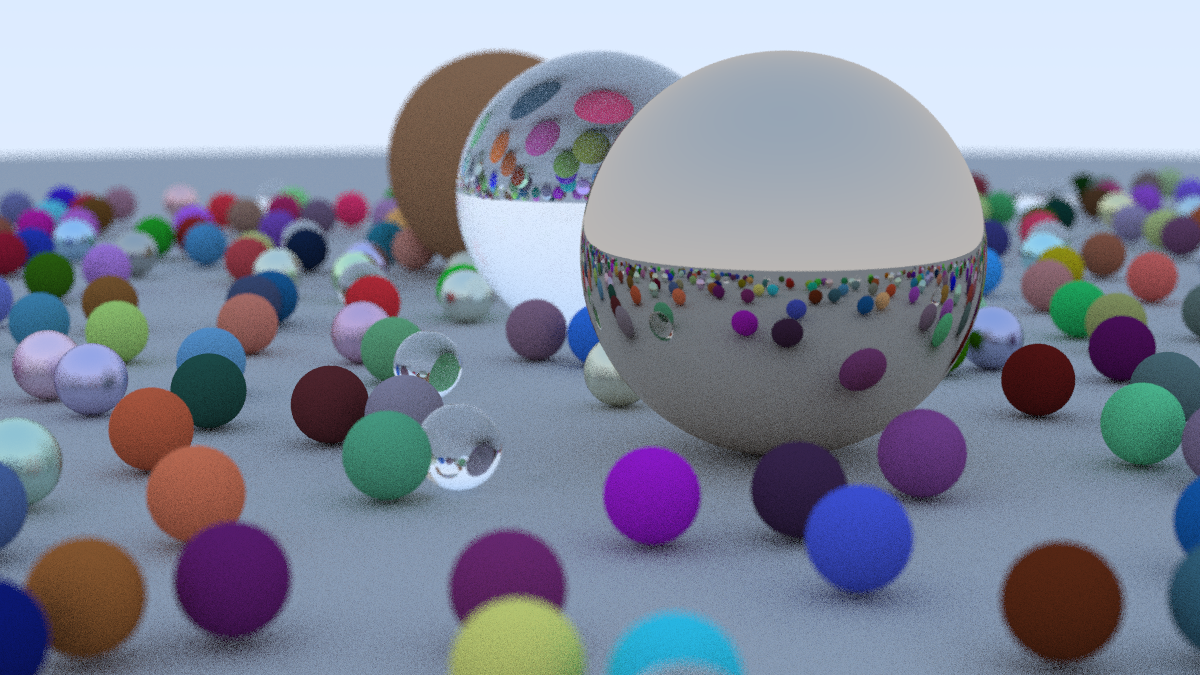
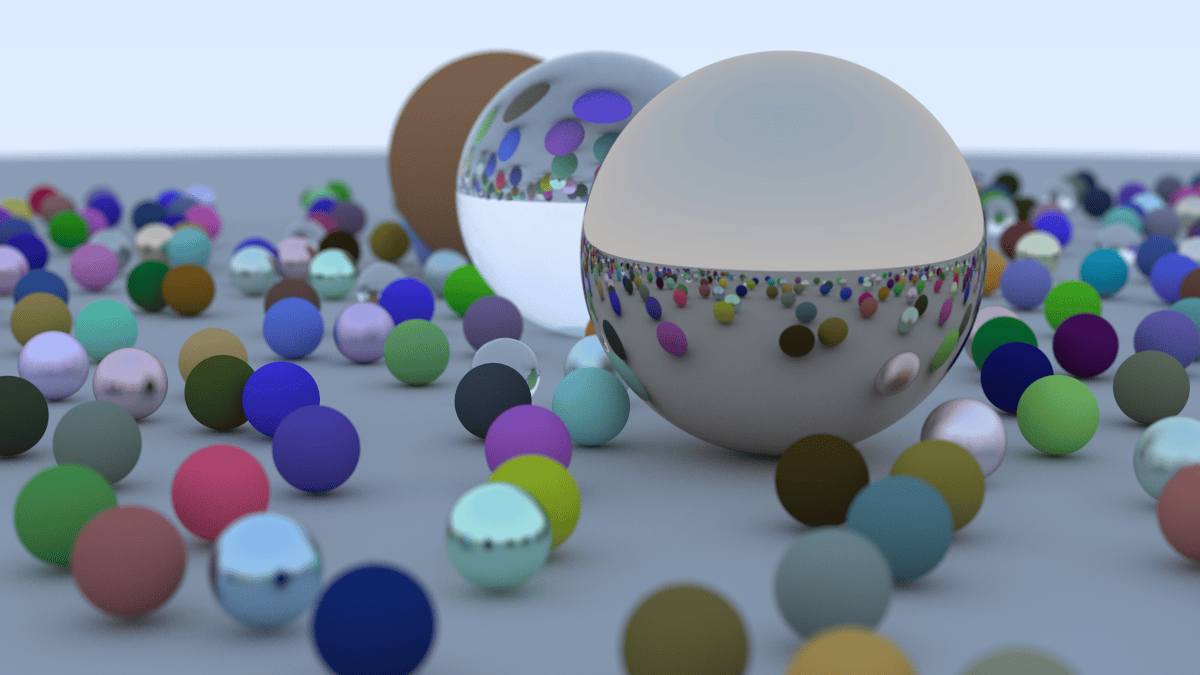
Fixing gpu code and final readme

diff --git a/VulkanGPURT/src/path_tracer_runtime.cpp b/VulkanGPURT/src/path_tracer_runtime.cpp
@@ -4,6 +4,7 @@
 #include <array>
 #include <cmath>
 #include <cstdint>
+#include <cstring>
 #include <filesystem>
 #include <fstream>
 #include <stdexcept>
@@ -11,18 +12,97 @@
 namespace vkgpu {
 
 /**
- * Dispatches the compute shader to perform path tracing. 
- * It records commands to bind the pipeline and descriptor sets, push constants, 
- * and dispatch compute work.
+ * Dispatches the compute shader to perform path tracing.
+ *
+ * The full sample count is split across several dispatches ("sample batches") rather than being traced in a
+ * single dispatch. A single dispatch that traces every sample and bounce for a heavy render can run longer
+ * than the operating system's GPU watchdog timeout (Timeout Detection and Recovery, ~2 s on Windows); when
+ * that happens the driver resets the device mid-dispatch, the not-yet-executed workgroups never write their
+ * pixels, and the image ends up with a black region (typically the lower rows). Bounding the per-dispatch
+ * work keeps every submission comfortably under that limit. Each batch accumulates into the output buffer,
+ * which is zeroed up front, and the host normalizes by the accumulated sample count when tonemapping.
  */
 void PathTracer::Impl::dispatch() {
+    zeroOutputBuffer();
+
+    // Cap the ray-bounce work per pixel per dispatch. Fewer bounces allow more samples per batch and
+    // vice versa, so each submission does a similar, bounded amount of work regardless of the settings.
+    constexpr uint32_t kRayBudgetPerBatch = 512u;
+    const uint32_t samplesPerBatch = std::clamp(
+        kRayBudgetPerBatch / std::max(1u, config_.maxBounces),
+        1u,
+        std::max(1u, config_.samplesPerPixel)
+    );
+
+    // Define the local workgroup size and calculate the number of groups needed to cover the entire image.
+    constexpr uint32_t localSizeX = 16;
+    constexpr uint32_t localSizeY = 16;
+    const uint32_t groupsX = (config_.width + localSizeX - 1) / localSizeX;
+    const uint32_t groupsY = (config_.height + localSizeY - 1) / localSizeY;
+
+    for (uint32_t sampleOffset = 0; sampleOffset < config_.samplesPerPixel; sampleOffset += samplesPerBatch) {
+        const uint32_t batchSamples = std::min(samplesPerBatch, config_.samplesPerPixel - sampleOffset);
+        dispatchSampleBatch(groupsX, groupsY, sampleOffset, batchSamples);
+    }
+}
+
+/**
+ * Clears the output accumulation buffer to zero before rendering begins.
+ *
+ * The buffer is HOST_VISIBLE | HOST_COHERENT, and host writes issued before a queue submission are
+ * guaranteed to be visible to that submission, so a plain host-side memset is sufficient and no explicit
+ * host-write barrier is required before the first dispatch reads it.
+ */
+void PathTracer::Impl::zeroOutputBuffer() {
+    const VkDeviceSize outputBufferSize =
+        static_cast<VkDeviceSize>(config_.width) * static_cast<VkDeviceSize>(config_.height) * sizeof(OutputPixel);
+
+    void* mapped = nullptr;
+    if (vkMapMemory(device_, outputBufferMemory_, 0, outputBufferSize, 0, &mapped) != VK_SUCCESS) {
+        throw std::runtime_error("Failed to map output buffer for clearing.");
+    }
+    std::memset(mapped, 0, static_cast<size_t>(outputBufferSize));
+    vkUnmapMemory(device_, outputBufferMemory_);
+}
+
+/**
+ * Records, submits, and waits for a single sample batch. Each batch traces batchSamples samples per pixel,
+ * offset by sampleOffset (which also decorrelates the batch's random sequence), and adds the result into the
+ * output accumulation buffer.
+ */
+void PathTracer::Impl::dispatchSampleBatch(uint32_t groupsX, uint32_t groupsY, uint32_t sampleOffset, uint32_t batchSamples) {
     VkCommandBufferBeginInfo beginInfo{};
     beginInfo.sType = VK_STRUCTURE_TYPE_COMMAND_BUFFER_BEGIN_INFO;
 
-    // Begin recording commands into the command buffer
+    // Begin recording commands into the command buffer (implicitly resets it; the pool was created with
+    // VK_COMMAND_POOL_CREATE_RESET_COMMAND_BUFFER_BIT so it can be re-recorded for each batch).
     if (vkBeginCommandBuffer(commandBuffer_, &beginInfo) != VK_SUCCESS) {
         throw std::runtime_error("Failed to begin command buffer.");
     }
+
+    // Ensure the previous batch's accumulating writes to the output buffer are visible to this batch's
+    // read-modify-write. Harmless on the first batch (the host zero-fill is already visible via submission).
+    VkBufferMemoryBarrier accumulateBarrier{};
+    accumulateBarrier.sType = VK_STRUCTURE_TYPE_BUFFER_MEMORY_BARRIER;
+    accumulateBarrier.srcAccessMask = VK_ACCESS_SHADER_WRITE_BIT;
+    accumulateBarrier.dstAccessMask = VK_ACCESS_SHADER_READ_BIT | VK_ACCESS_SHADER_WRITE_BIT;
+    accumulateBarrier.srcQueueFamilyIndex = VK_QUEUE_FAMILY_IGNORED;
+    accumulateBarrier.dstQueueFamilyIndex = VK_QUEUE_FAMILY_IGNORED;
+    accumulateBarrier.buffer = outputBuffer_;
+    accumulateBarrier.offset = 0;
+    accumulateBarrier.size = VK_WHOLE_SIZE;
+    vkCmdPipelineBarrier(
+        commandBuffer_,
+        VK_PIPELINE_STAGE_COMPUTE_SHADER_BIT,
+        VK_PIPELINE_STAGE_COMPUTE_SHADER_BIT,
+        0,
+        0,
+        nullptr,
+        1,
+        &accumulateBarrier,
+        0,
+        nullptr
+    );
 
     // Bind the compute pipeline and descriptor sets
     vkCmdBindPipeline(commandBuffer_, VK_PIPELINE_BIND_POINT_COMPUTE, pipeline_);
@@ -37,23 +117,18 @@ void PathTracer::Impl::dispatch() {
         nullptr
     );
 
-    // Push constants to the shader
+    // Push constants to the shader. samplesPerPixel carries this batch's sample count, not the total.
     PushConstants push{};
     push.width = config_.width;
     push.height = config_.height;
     push.sphereCount = static_cast<uint32_t>(sceneData_.size());
-    push.samplesPerPixel = config_.samplesPerPixel;
+    push.samplesPerPixel = batchSamples;
     push.maxBounces = config_.maxBounces;
     push.seed = config_.seed;
+    push.sampleOffset = sampleOffset;
 
     vkCmdPushConstants(commandBuffer_, pipelineLayout_, VK_SHADER_STAGE_COMPUTE_BIT, 0, sizeof(PushConstants), &push);
 
-    // Define the local workgroup size and calculate the number of groups needed to cover the entire image, then dispatch the compute shader
-    constexpr uint32_t localSizeX = 16;
-    constexpr uint32_t localSizeY = 16;
-
-    const uint32_t groupsX = (config_.width + localSizeX - 1) / localSizeX;
-    const uint32_t groupsY = (config_.height + localSizeY - 1) / localSizeY;
     vkCmdDispatch(commandBuffer_, groupsX, groupsY, 1);
 
     // Insert a memory barrier to ensure that the compute shader has finished writing to the output buffer before we read it on the host
@@ -103,8 +178,20 @@ void PathTracer::Impl::dispatch() {
         throw std::runtime_error("Failed to submit compute command buffer.");
     }
 
-    vkWaitForFences(device_, 1, &fence, VK_TRUE, UINT64_MAX);
+    const VkResult waitResult = vkWaitForFences(device_, 1, &fence, VK_TRUE, UINT64_MAX);
     vkDestroyFence(device_, fence, nullptr);
+
+    // A device loss here usually means a dispatch exceeded the GPU watchdog timeout. Surface it instead of
+    // silently writing a partially rendered (black) image and reporting success.
+    if (waitResult == VK_ERROR_DEVICE_LOST) {
+        throw std::runtime_error(
+            "GPU device lost while rendering (likely a compute dispatch exceeded the OS GPU watchdog timeout). "
+            "Try lowering --spp or --bounces."
+        );
+    }
+    if (waitResult != VK_SUCCESS) {
+        throw std::runtime_error("Failed to wait for compute fence.");
+    }
 }
 
 /**
@@ -144,10 +231,13 @@ void PathTracer::Impl::writePpmImage() {
     for (uint32_t y = 0; y < config_.height; ++y) {
         for (uint32_t x = 0; x < config_.width; ++x) {
             const OutputPixel& pixel = pixels[y * config_.width + x];
+            // The shader accumulates the summed radiance across all sample batches and stores the total
+            // sample count in the alpha channel; normalize by it to recover the averaged color.
+            const float invSamples = pixel.a > 0.0f ? 1.0f / pixel.a : 0.0f;
             const uint8_t rgb[3] = {
-                tonemapToByte(pixel.r),
-                tonemapToByte(pixel.g),
-                tonemapToByte(pixel.b)
+                tonemapToByte(pixel.r * invSamples),
+                tonemapToByte(pixel.g * invSamples),
+                tonemapToByte(pixel.b * invSamples)
             };
             outFile.write(reinterpret_cast<const char*>(rgb), 3);
         }

diff --git a/VulkanGPURT/src/path_tracer_setup.cpp b/VulkanGPURT/src/path_tracer_setup.cpp
@@ -388,10 +388,15 @@ void PathTracer::Impl::createDescriptorSet() {
  * Resolves the path to the shader file.
  */
 std::filesystem::path PathTracer::Impl::resolveShaderPath() const {
+    // The renderer is expected to be launched from the repository root. CMake compiles and copies the
+    // SPIR-V binary next to the executable under VulkanGPURT/build/<config>/shaders/, so look there first.
+    const std::filesystem::path cwd = std::filesystem::current_path();
     const std::vector<std::filesystem::path> candidates = {
-        std::filesystem::current_path() / "shaders" / "path_tracer.comp.spv",
-        std::filesystem::current_path() / ".." / "shaders" / "path_tracer.comp.spv",
-        std::filesystem::current_path() / ".." / ".." / "shaders" / "path_tracer.comp.spv"
+        cwd / "VulkanGPURT" / "build" / "Release" / "shaders" / "path_tracer.comp.spv",
+        cwd / "VulkanGPURT" / "build" / "Debug" / "shaders" / "path_tracer.comp.spv",
+        cwd / "shaders" / "path_tracer.comp.spv",
+        cwd / ".." / "shaders" / "path_tracer.comp.spv",
+        cwd / ".." / ".." / "shaders" / "path_tracer.comp.spv"
     };
 
     for (const std::filesystem::path& candidate : candidates) {

diff --git a/VulkanGPURT/include/path_tracer_types.h b/VulkanGPURT/include/path_tracer_types.h
@@ -16,9 +16,10 @@ struct PushConstants {
     uint32_t width;
     uint32_t height;
     uint32_t sphereCount;
-    uint32_t samplesPerPixel;
+    uint32_t samplesPerPixel;  // Number of samples traced in THIS dispatch (one sample batch), not the total.
     uint32_t maxBounces;
     uint32_t seed;
+    uint32_t sampleOffset;     // Samples already accumulated before this batch; decorrelates each batch's RNG.
 };
 
 static_assert(sizeof(PushConstants) % 4 == 0, "Push constants must be 4-byte aligned.");

diff --git a/VulkanGPURT/src/path_tracer_impl.h b/VulkanGPURT/src/path_tracer_impl.h
@@ -50,6 +50,8 @@ private:
     void updateDescriptorSet();
 
     void dispatch();
+    void zeroOutputBuffer();
+    void dispatchSampleBatch(uint32_t groupsX, uint32_t groupsY, uint32_t sampleOffset, uint32_t batchSamples);
     static uint8_t tonemapToByte(float linear);
     void writePpmImage();
     void cleanup();

diff --git a/README.md b/README.md
@@ -87,26 +87,30 @@ The reusable scene helper is `mesh_scene(...)` in `RayTracing/include/scenes/mes
 
 Project folder: `VulkanGPURT`
 
-Build:
+Requires the Vulkan SDK installed and the `VULKAN_SDK` environment variable set (CMake uses it to find `glslc` for compiling the compute shader).
 
-```bat
-cd VulkanGPURT
-build.bat
+Build (run from the repository root):
+
+```bash
+cmake -S VulkanGPURT -B VulkanGPURT/build
+cmake --build VulkanGPURT/build --config Release
 ```
 
 Binary output:
 
-- `VulkanGPURT/out/vulkan_gpu_rt.exe`
+- `VulkanGPURT/build/<config>/vulkan_gpu_rt.exe` (e.g. `VulkanGPURT/build/Release/vulkan_gpu_rt.exe`)
 
-Shader output copied by the build script:
+Shader output compiled and copied next to the executable by the build:
 
-- `VulkanGPURT/out/shaders/path_tracer.comp.spv`
+- `VulkanGPURT/build/<config>/shaders/path_tracer.comp.spv`
 
-Run example:
+Run example (launch from the repository root so the shader is found):
 
 ```bat
-VulkanGPURT\out\vulkan_gpu_rt.exe --width 1200 --height 675 --spp 20 --bounces 10 --scene weekend --output image.ppm
+.\VulkanGPURT\build\Release\vulkan_gpu_rt.exe --width 1200 --height 675 --spp 20 --bounces 10 --scene weekend --output VulkanGPURT/out/image.ppm
 ```
+
+The renderer locates `path_tracer.comp.spv` relative to the current working directory, checking `VulkanGPURT/build/Release/shaders/` and `VulkanGPURT/build/Debug/shaders/`. Run it from the repository root (as shown above); if you run it from elsewhere, pass a working directory at the repo root or place a `shaders/path_tracer.comp.spv` alongside where you launch it.
 
 Supported arguments:
 
